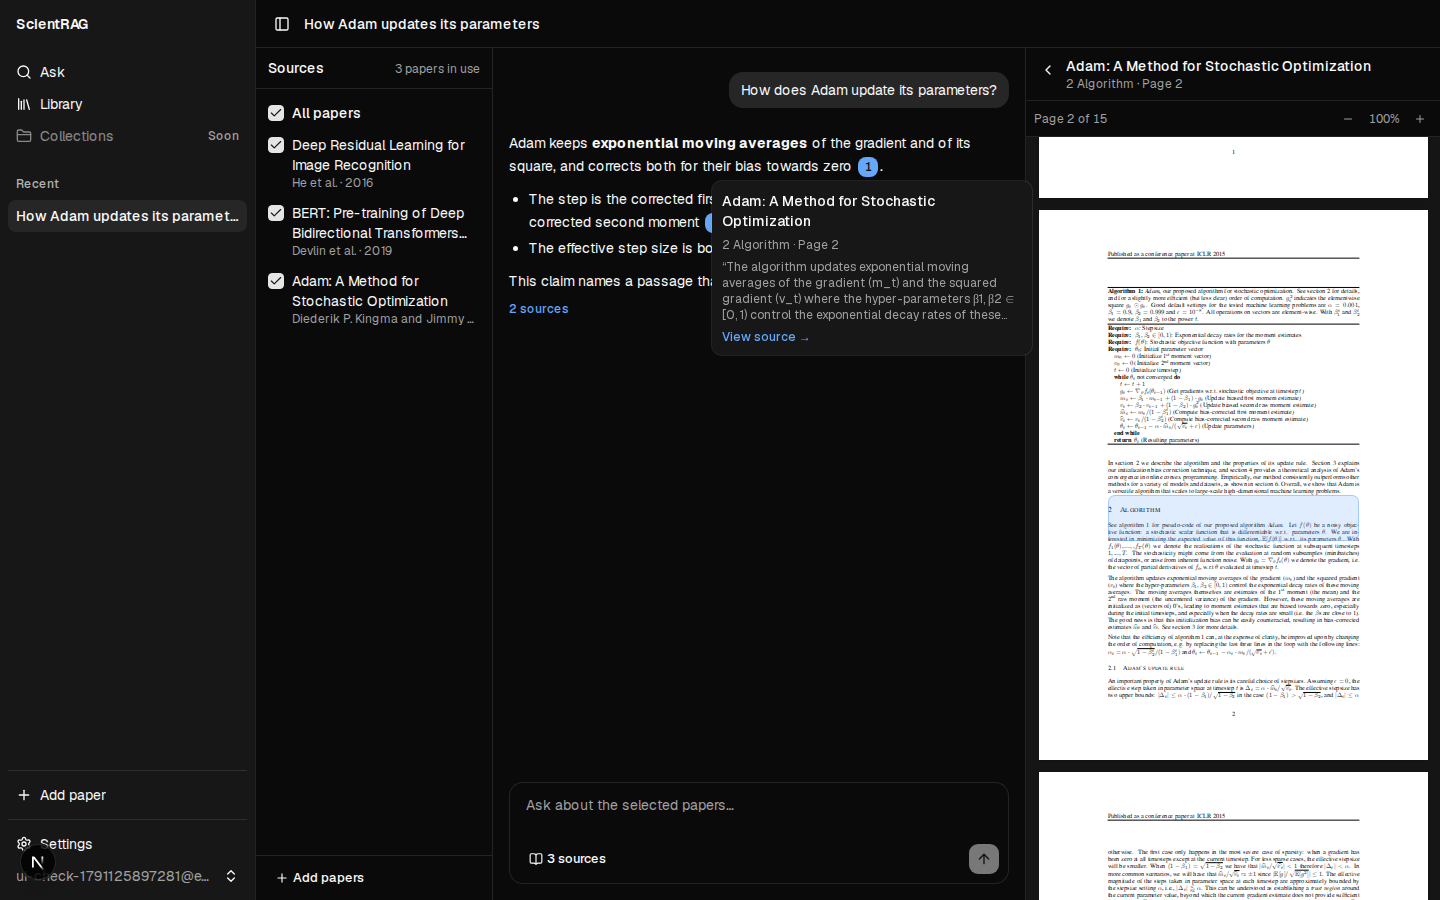
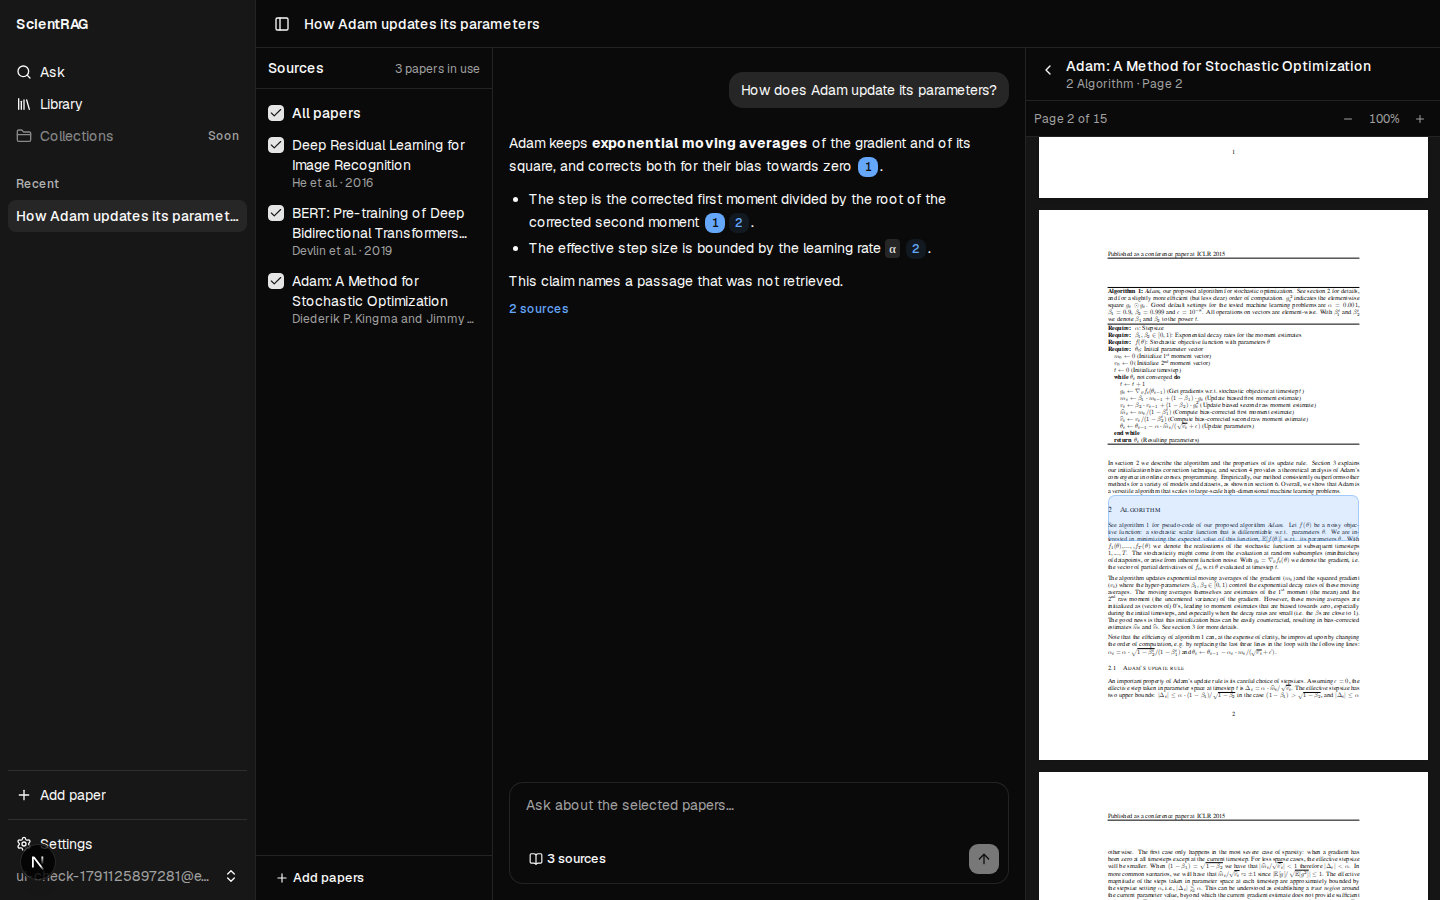
fix(web): keep citation markers and the evidence PDF steady between clicks
Answers now use one fixed link renderer. A new one on every render built
every marker anew whenever a piece of the answer arrived or a passage was
opened, which reopened the hover card over the neighbouring markers.
Earlier answers are no longer parsed again while a new one streams in.

The hover card closes when its marker is chosen. Another passage of the
same paper moves the view instead of loading the PDF again.

Changed region(s): [[0.5, 0.2178, 0.6875, 0.4044]]

diff --git a/apps/web/components/research/chat-panel.tsx b/apps/web/components/research/chat-panel.tsx
@@ -2,7 +2,7 @@
 
 import { Loader2, RotateCcw } from "lucide-react";
 import Link from "next/link";
-import { useEffect, useMemo, useRef } from "react";
+import { createContext, memo, useContext, useEffect, useRef } from "react";
 import Markdown, { type Components } from "react-markdown";
 
 import { CitationMarker } from "@/components/research/citation-marker";
@@ -16,50 +16,55 @@ import { cn } from "@/lib/utils";
 
 const STARTERS = ["Summarize key findings", "Compare methodologies", "Find limitations"];
 
-function Answer({
-  message,
-  activeChunk,
-  onOpenSource,
-}: {
+type AnswerProps = {
   message: ChatMessage;
   activeChunk: string | null;
   onOpenSource: (source: Source, message: ChatMessage) => void;
-}) {
-  const components = useMemo<Components>(() => {
-    const byMarker = new Map(message.sources.map((source) => [source.marker, source]));
-    return {
-      a({ href, children }) {
-        if (href?.startsWith(CITATION_HREF)) {
-          const source = byMarker.get(href.slice(CITATION_HREF.length));
-          // A marker for a passage that was not given to the model: shown as plain text.
-          if (!source) return <>{children}</>;
-          return (
-            <CitationMarker
-              source={source}
-              active={activeChunk === source.chunk_id}
-              onOpen={(opened) => onOpenSource(opened, message)}
-            />
-          );
-        }
-        return (
-          <a href={href} target="_blank" rel="noreferrer noopener">
-            {children}
-          </a>
-        );
-      },
-    };
-  }, [message, activeChunk, onOpenSource]);
+};
 
+const AnswerContext = createContext<AnswerProps | null>(null);
+
+/** A link in an answer: a source marker, or an ordinary link that opens in a new tab. */
+function AnswerLink({ href, children }: { href?: string; children?: React.ReactNode }) {
+  const answer = useContext(AnswerContext);
+  if (answer && href?.startsWith(CITATION_HREF)) {
+    const marker = href.slice(CITATION_HREF.length);
+    const source = answer.message.sources.find((known) => known.marker === marker);
+    // A marker for a passage that was not given to the model: shown as plain text.
+    if (!source) return <>{children}</>;
+    return (
+      <CitationMarker
+        source={source}
+        active={answer.activeChunk === source.chunk_id}
+        onOpen={(opened) => answer.onOpenSource(opened, answer.message)}
+      />
+    );
+  }
+  return (
+    <a href={href} target="_blank" rel="noreferrer noopener">
+      {children}
+    </a>
+  );
+}
+
+// One fixed set: a new one on every render would build every marker anew, closing its
+// card and losing its state each time a piece of the answer arrives.
+const COMPONENTS: Components = { a: AnswerLink };
+
+// Memoised: while one answer streams in, the earlier ones are not parsed again.
+const Answer = memo(function Answer(props: AnswerProps) {
   return (
     // react-markdown renders no raw HTML: what a model writes cannot become markup.
     <div className="answer text-sm leading-relaxed">
-      {/* No images: a picture address written by the model would be fetched, and could carry text out. */}
-      <Markdown components={components} disallowedElements={["img"]}>
-        {linkCitations(message.content)}
-      </Markdown>
+      <AnswerContext.Provider value={props}>
+        {/* No images: a picture address written by the model would be fetched, and could carry text out. */}
+        <Markdown components={COMPONENTS} disallowedElements={["img"]}>
+          {linkCitations(props.message.content)}
+        </Markdown>
+      </AnswerContext.Provider>
     </div>
   );
-}
+});
 
 function Failure({ message, onRetry }: { message: ChatMessage; onRetry: () => void }) {
   const provider = providerProblem(message.error?.code, message.error?.message);

diff --git a/apps/web/components/research/evidence-panel.tsx b/apps/web/components/research/evidence-panel.tsx
@@ -32,14 +32,17 @@ function EvidenceCard({ source, onOpen }: { source: Source; onOpen: () => void }
 
 /** The passage in its paper: the right page, with the passage marked. */
 function EvidencePdf({ source, onBack }: { source: Source; onBack: () => void }) {
-  // The passage, once it is known where it sits. "missing" when it can no longer be found.
-  const [passage, setPassage] = useState<Passage | "missing" | null>(null);
+  // Where a passage sits, once known. "missing" when it can no longer be found.
+  const [found, setFound] = useState<{ chunk: string; passage: Passage | "missing" } | null>(null);
+  // What was found for an earlier marker says nothing about this one.
+  const passage = found?.chunk === source.chunk_id ? found.passage : null;
 
   useEffect(() => {
     let cancelled = false;
-    api<Passage>(`/chunks/${source.chunk_id}`)
-      .then((found) => !cancelled && setPassage(found))
-      .catch(() => !cancelled && setPassage("missing"));
+    const chunk = source.chunk_id;
+    api<Passage>(`/chunks/${chunk}`)
+      .then((passage) => !cancelled && setFound({ chunk, passage }))
+      .catch(() => !cancelled && setFound({ chunk, passage: "missing" }));
     return () => {
       cancelled = true;
     };
@@ -102,8 +105,8 @@ export function EvidencePanel({
   onOpen: (source: Source) => void;
   onBack: () => void;
 }) {
-  // Keyed by passage: another one starts over instead of showing the marks of the last.
-  if (active) return <EvidencePdf key={active.chunk_id} source={active} onBack={onBack} />;
+  // Keyed by paper: another passage of the same paper moves the view, without loading the PDF again.
+  if (active) return <EvidencePdf key={active.paper_id} source={active} onBack={onBack} />;
   return (
     <div className="flex h-full min-h-0 flex-col">
       <h2 className="shrink-0 border-b px-3 py-2.5 text-sm font-medium">Evidence</h2>

diff --git a/apps/web/components/research/citation-marker.tsx b/apps/web/components/research/citation-marker.tsx
@@ -1,5 +1,7 @@
 "use client";
 
+import { useState } from "react";
+
 import { HoverCard, HoverCardContent, HoverCardTrigger } from "@/components/ui/hover-card";
 import type { Source } from "@/lib/types";
 import { cn } from "@/lib/utils";
@@ -23,13 +25,21 @@ export function CitationMarker({
   active: boolean;
   onOpen: (source: Source) => void;
 }) {
+  // Closed on a click: the passage opens beside the answer, and the card would cover the next markers.
+  // It stays closed until the pointer has left the marker and come back.
+  const [open, setOpen] = useState(false);
+  const [chosen, setChosen] = useState(false);
   return (
-    <HoverCard>
+    <HoverCard open={open && !chosen} onOpenChange={setOpen}>
       <HoverCardTrigger
         render={
           <button
             type="button"
-            onClick={() => onOpen(source)}
+            onClick={() => {
+              setChosen(true);
+              onOpen(source);
+            }}
+            onPointerLeave={() => setChosen(false)}
             aria-label={`Source ${source.marker.slice(1)}: ${source.paper_title}, page ${source.page}`}
             className={cn(
               "mx-0.5 inline-flex h-5 min-w-5 items-center justify-center rounded-md px-1 align-baseline text-xs font-medium tabular-nums transition-colors outline-none focus-visible:ring-2 focus-visible:ring-citation/50",
